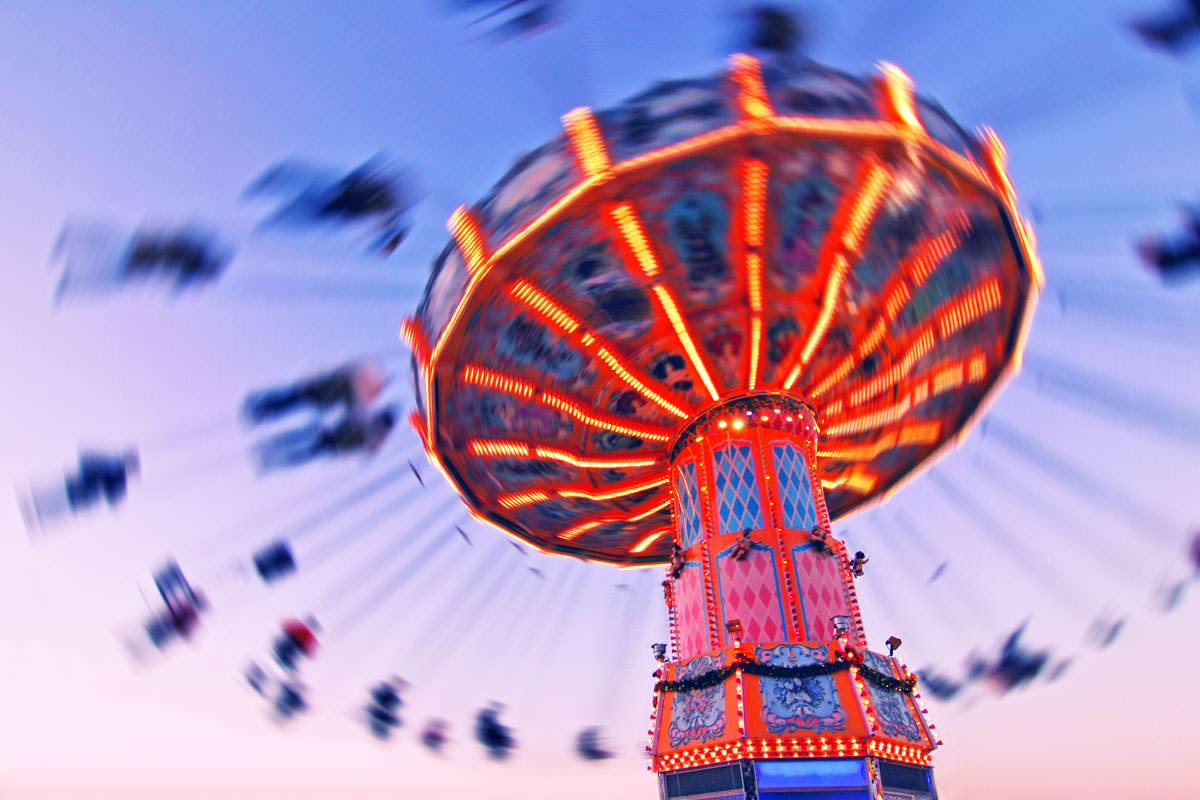
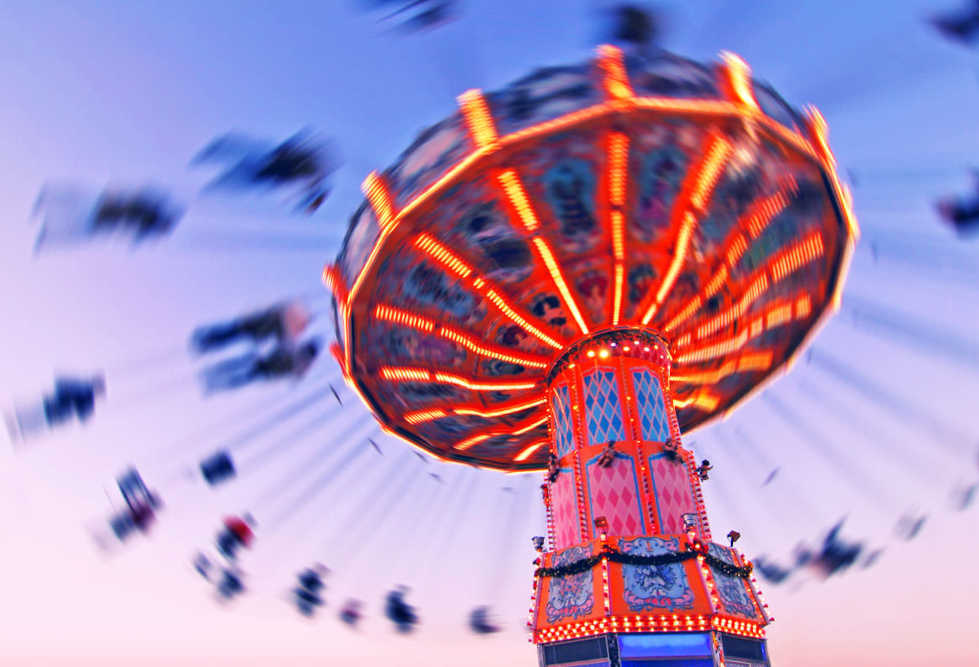
edit images so thay all have the same size and reduced their size for faster loading, move attraction styles to a separate CSS file, modify attraction styles to scale images with screen size and made the grid responsive

diff --git a/attractions.html b/attractions.html
@@ -19,6 +19,8 @@
 
     <!-- main stylesheet -->
     <link rel="stylesheet" href="assets/css/twinklepstyles.css" />
+    <!-- attraction page stylesheet -->
+    <link rel="stylesheet" href="assets/css/attractions.css">
   </head>
 
   <body>
@@ -50,74 +52,90 @@
       <div class="attraction">
         <!-- Attration item 01 -->
         <div class="attraction_item">
-          <img
-            src="assets/img/attraction-01.jpg"
-            alt="Speedy Roller"
-            class="attraction_img"
-          />
+          <div class="attraction_item_img_container">
+            <img
+              src="assets/img/attraction-01.jpg"
+              alt="Speedy Roller"
+              class="attraction_img"
+            />
+          </div>
           <h4>Speedy Roller</h4>
         </div>
         <!-- Attration item 02 -->
         <div class="attraction_item">
-          <img
-            src="assets/img/attraction-02.jpg"
-            alt="Neon Swing"
-            class="attraction_img"
-          />
+          <div class="attraction_item_img_container">
+            <img
+              src="assets/img/attraction-02.jpg"
+              alt="Neon Swing"
+              class="attraction_img"
+            />
+          </div>
           <h4>Neon Swing</h4>
         </div>
         <!-- Attration item 03 -->
         <div class="attraction_item">
-          <img
-            src="assets/img/attraction-03.jpg"
-            alt="iWheel"
-            class="attraction_img"
-          />
+          <div class="attraction_item_img_container">
+            <img
+              src="assets/img/attraction-03.jpg"
+              alt="iWheel"
+              class="attraction_img"
+            />
+          </div>
           <h4>iWheel</h4>
         </div>
         <!-- Attration item 04 -->
         <div class="attraction_item">
-          <img
-            src="assets/img/attraction-04.jpg"
-            alt="Double Decker Carousel"
-            class="attraction_img"
-          />
+          <div class="attraction_item_img_container">
+            <img
+              src="assets/img/attraction-04.jpg"
+              alt="Double Decker Carousel"
+              class="attraction_img"
+            />
+          </div>
           <h4>Double Decker Carousel</h4>
         </div>
         <!-- Attration item 05 -->
         <div class="attraction_item">
-          <img
-            src="assets/img/attraction-05.jpg"
-            alt="Flash Clash"
-            class="attraction_img"
-          />
+          <div class="attraction_item_img_container">
+            <img
+              src="assets/img/attraction-05.jpg"
+              alt="Flash Clash"
+              class="attraction_img"
+            />
+          </div>
           <h4>Flash Clash</h4>
         </div>
         <!-- Attration item 06 -->
         <div class="attraction_item">
-          <img
-            src="assets/img/attraction-06.jpg"
-            alt="Wild Water"
-            class="attraction_img"
-          />
+          <div class="attraction_item_img_container">
+            <img
+              src="assets/img/attraction-06.jpg"
+              alt="Wild Water"
+              class="attraction_img"
+            />
+          </div>
           <h4>Wild Water</h4>
         </div>
         <!-- Attration item 07 -->
         <div class="attraction_item">
-          <img
-            src="assets/img/attraction-07.jpg"
-            alt="Mega Jump"
-            class="attraction_img"
-          />
+          <div class="attraction_item_img_container">
+            <img
+              src="assets/img/attraction-07.jpg"
+              alt="Mega Jump"
+              class="attraction_img"
+            />
+          </div>
           <h4>Mega Jump</h4>
         </div>
         <!-- Attration item 08 -->
         <div class="attraction_item">
-          <img
-            src="assets/img/attraction-08.jpeg"
-            alt="Live Shows"
-            class="attraction_img"
-          />
+          <div class="attraction_item_img_container">
+            <img
+              src="assets/img/attraction-08.jpeg"
+              alt="Live Shows"
+              class="attraction_img"
+            />
+          </div>
           <h4>Live Shows</h4>
         </div>
       </div>

diff --git a/assets/css/attractions.css b/assets/css/attractions.css
@@ -1,0 +1,47 @@
+
+/* Attrations page styles start */
+
+.section_title {
+  margin-top: 1em;
+}
+.attraction_item {
+  margin: 0.5em;
+}
+
+.attraction_item h4 {
+  text-align: center;
+}
+
+.attraction_item_img_container {
+  max-height: 250px;
+  border-radius: 10px;
+  margin-bottom: 0.5em;
+  display: flex;
+  justify-content: center;
+  align-items: center;
+  overflow: hidden;
+}
+
+.attraction_img {
+  width: 100%;
+  height: 100%;
+}
+
+.attractions {
+  text-align: center;
+}
+
+.attraction {
+  margin: 1em;
+  display: grid;
+  grid-template-columns: repeat(auto-fit, minmax(300px, 1fr));
+}
+
+/* On large screens keep the numer of images to maximum of 4 per row */
+@media (min-width: 1400px) {
+  .attraction {
+    grid-template-columns: repeat(4, minmax(300px, 1fr));
+  }
+}
+
+/* Attrations page styles end */

diff --git a/assets/css/twinklepstyles.css b/assets/css/twinklepstyles.css
@@ -9,7 +9,7 @@
 /* Global styles start */
 
 body {
-  font-family: "montserrat";
+  font-family: 'montserrat';
   font-size: 16px;
 }
 
@@ -45,7 +45,7 @@ header {
 
 .logo .logo-wording {
   color: rgb(221, 141, 141);
-  font-family: "Sacramento", cursive;
+  font-family: 'Sacramento', cursive;
   font-size: 4rem;
   text-align: center;
   /* font-weight: 800; */
@@ -121,29 +121,4 @@ footer {
 .covid19-updates {
   margin: 10px 0;
   text-align: center;
-}
-
-/* Attrations page styles */
-
-.section_title {
-  margin-top: 1em;
-}
-.attraction_img {
-  width: 250px;
-  height: 250px;
-  border-radius: 5%;
-}
-
-.attractions {
-  text-align: center;
-}
-
-.attraction {
-  margin: 1em;
-  display: grid;
-  grid-template-columns: repeat(auto-fit, minmax(300px, 1fr));
-}
-
-.attraction_item {
-  margin: 0.5em;
 }
